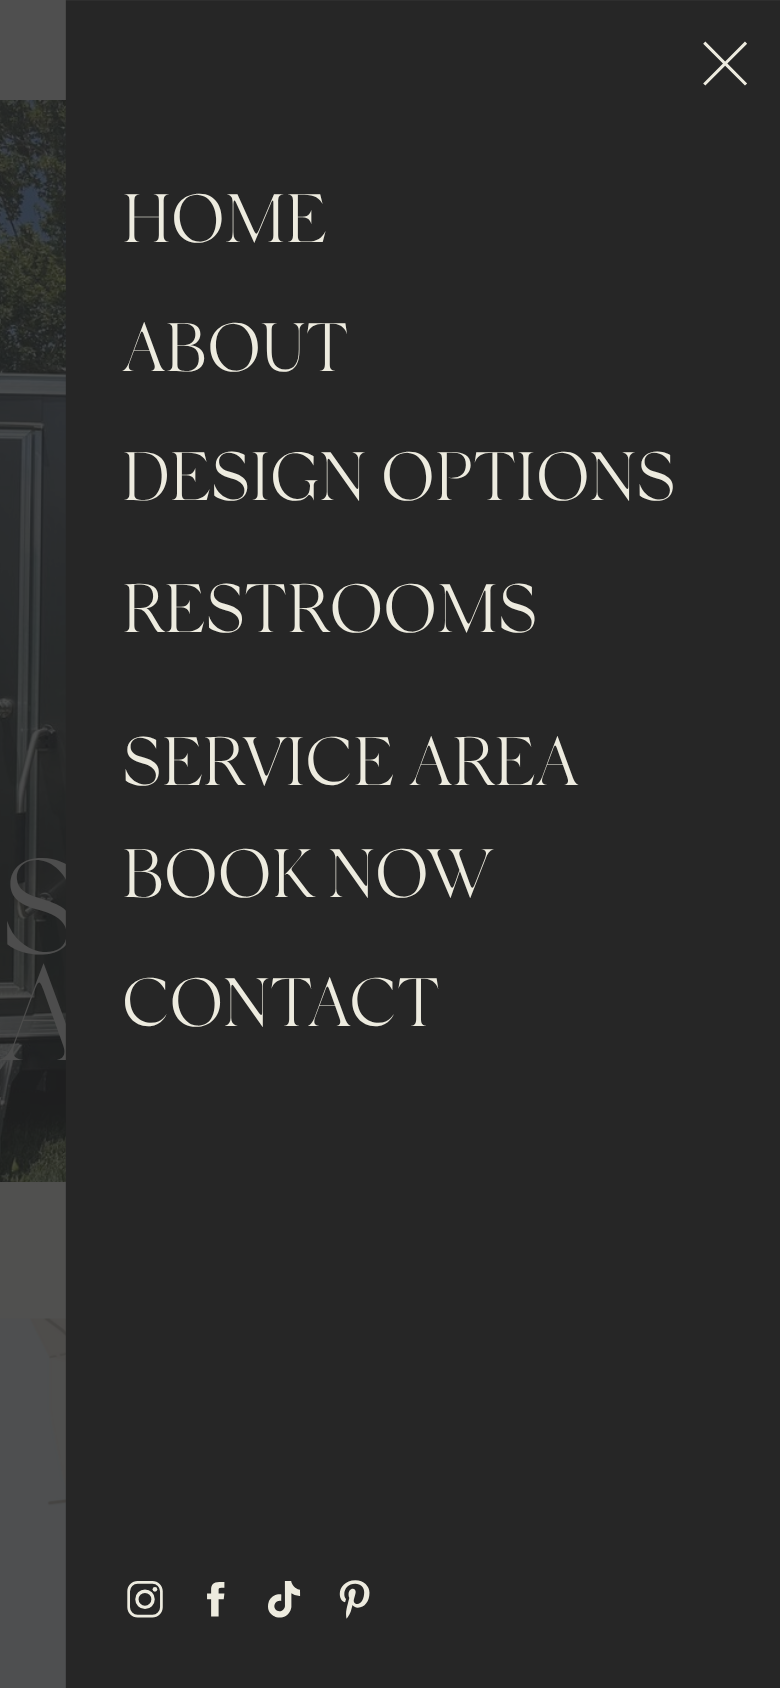
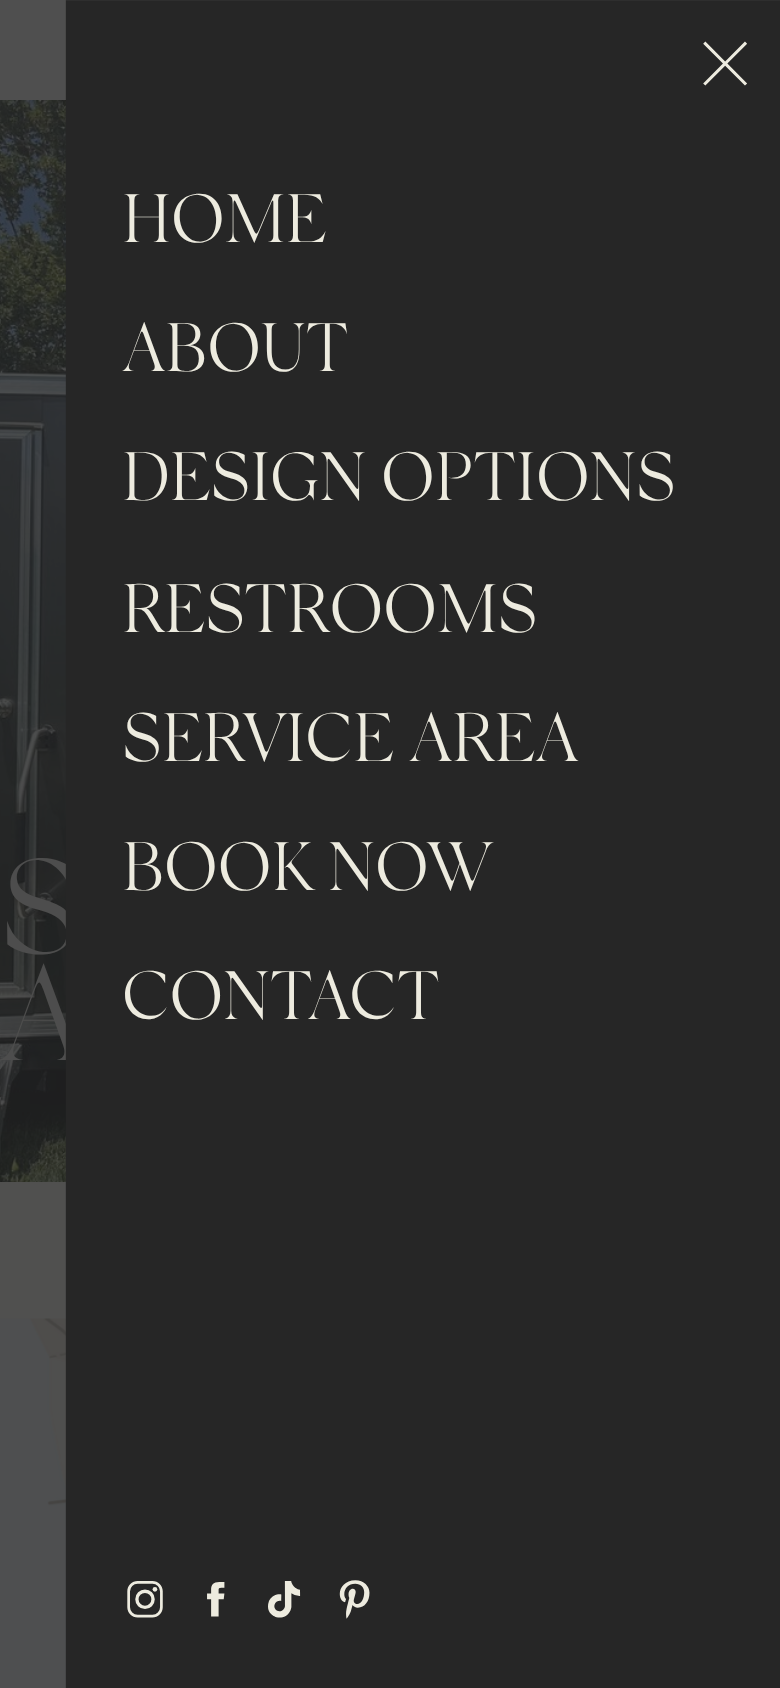
Slide-out menu: even item spacing on phone
Claude-Session: https://claude.ai/code/session_01Y2FQeFdBhddwt4iRU4jgwQ

diff --git a/ethereal/03-change-log.md b/ethereal/03-change-log.md
@@ -472,3 +472,5 @@ Alt text on the 12 changed cards: "Ethereal Luxury Restrooms trailer rental in <
 | Social icons (slide-out and footer) | The icons use Showit "Social Link" click actions, which read the site-level Social Links settings, and every field there was empty, so the icons did nothing. | Site Settings → Social: Instagram set to https://www.instagram.com/etherealluxuryrestrooms/ (saved). Facebook, TikTok, Pinterest and YouTube still empty, waiting for the Founder's URLs. | Instagram icon links in both places; the other icons stay inert until their URLs are entered. |
 
 Mechanics worth recording: site canvases (Footer, Slideout Menu) are edited from the Site list under "Site Canvases" (or the canvas row's "Edit Site Canvas"); the left panel then shows a CANVAS tab with the element rows. Site Settings changes need the dialog's SAVE button; the close icon otherwise asks to discard.
+
+Slide-out menu item spacing on phone evened out as well (Service Area 298 → 288, Book Now 344 → 341, Contact 397 → 394; all items now 53 apart).
